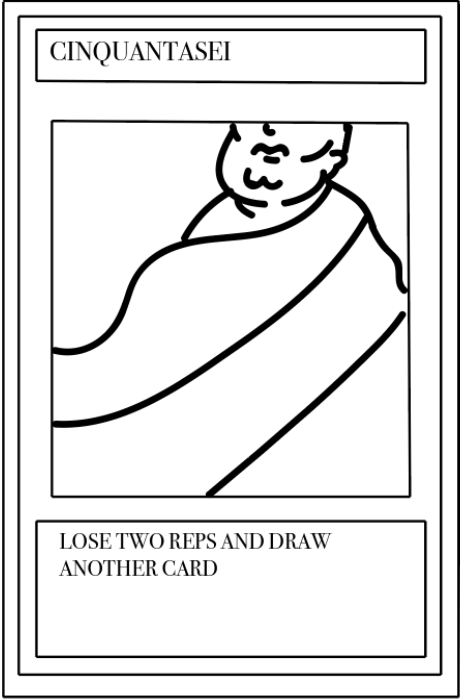
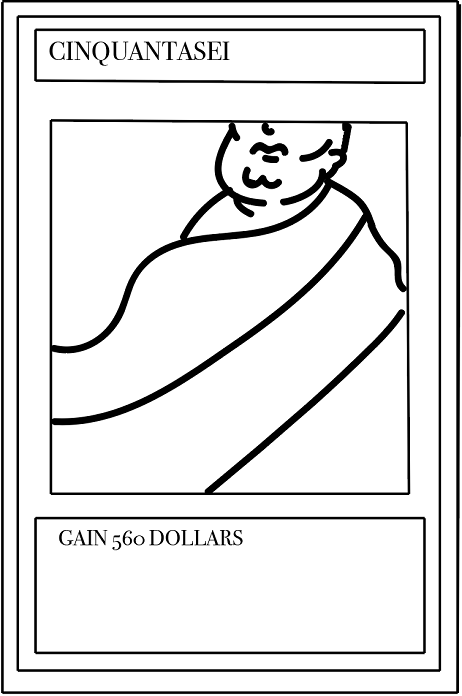
Made vincent changes
card 15 and 16 now are updated

diff --git a/BlueJFILES/__SHELL0.java b/BlueJFILES/__SHELL0.java
@@ -1,0 +1,8 @@
+
+public class __SHELL0 extends bluej.runtime.Shell {
+public static void run() throws Throwable {
+
+java.lang.String[] __bluej_param0 = { };
+Main.main(__bluej_param0);
+
+}}
